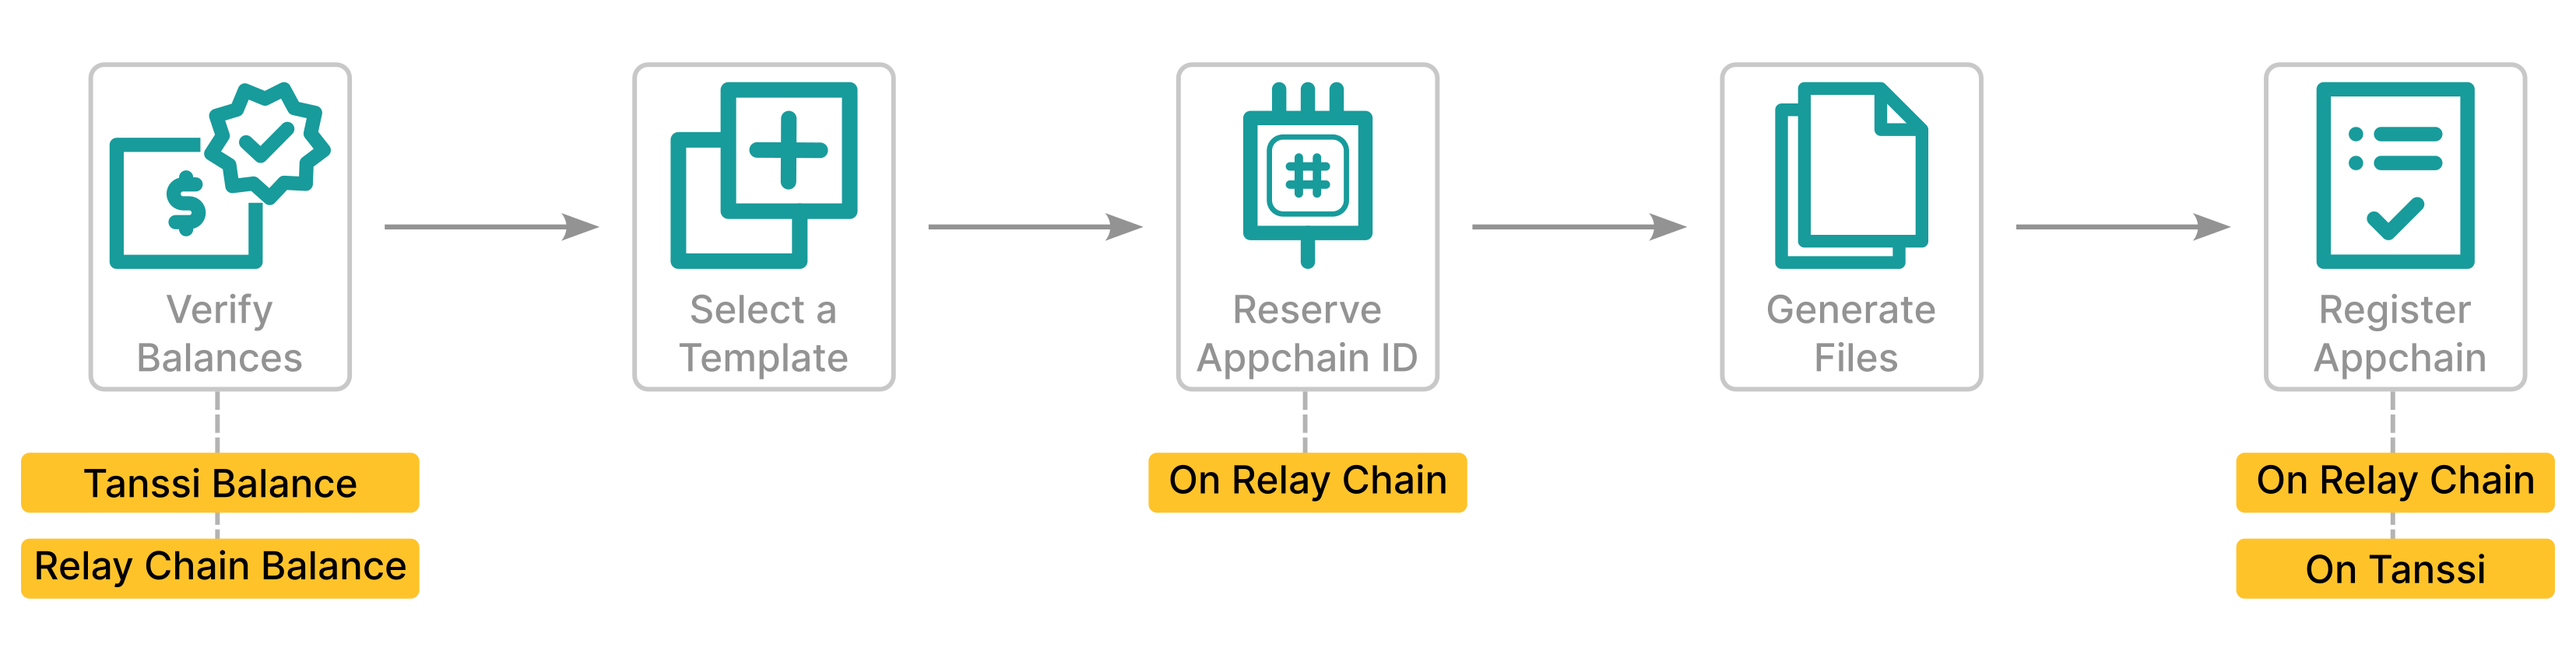
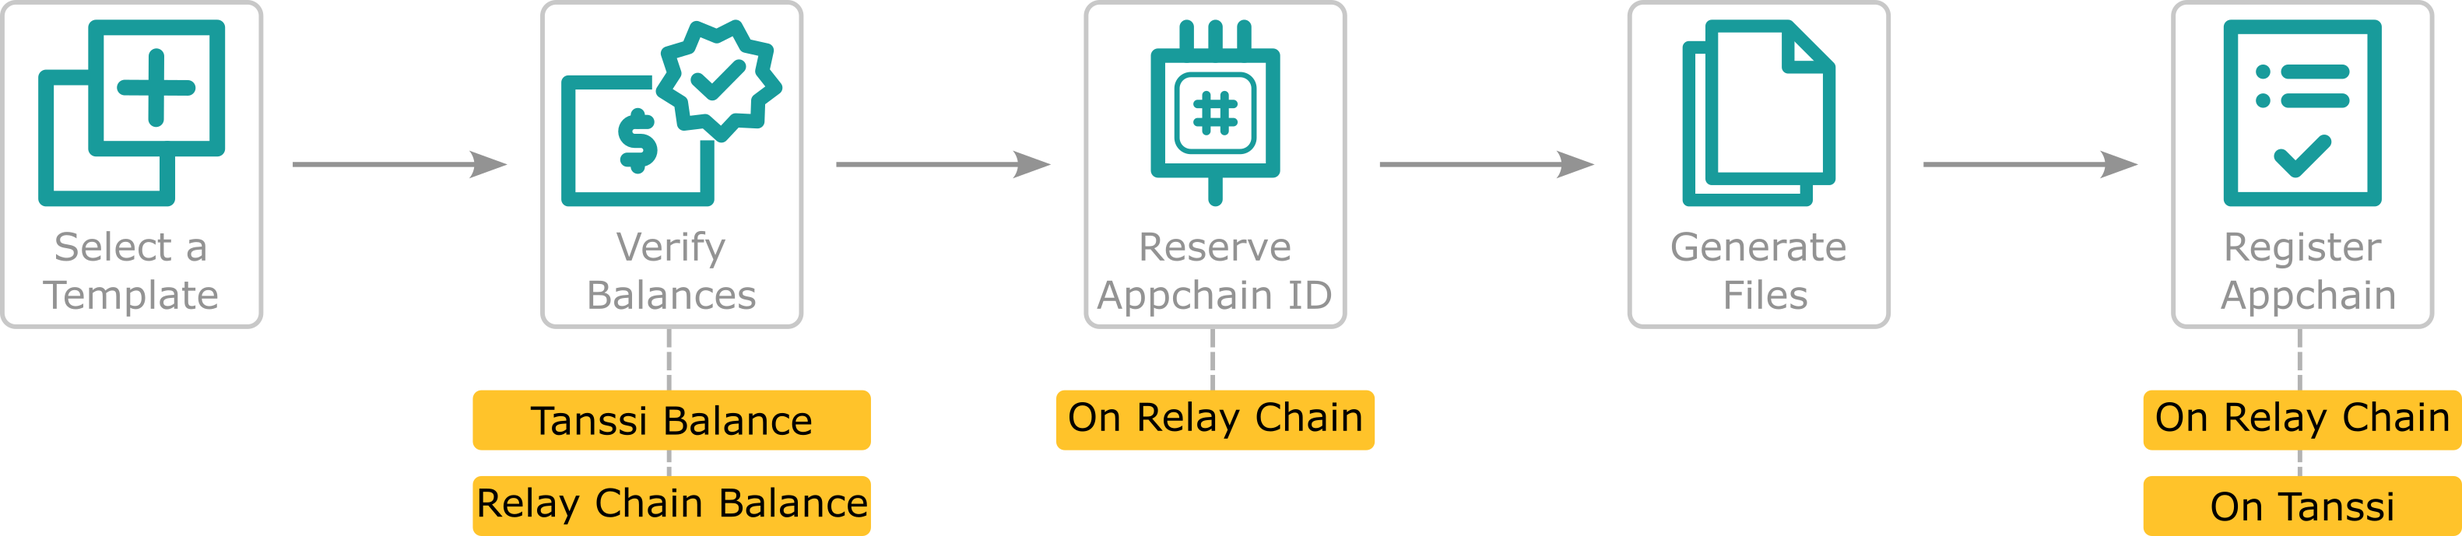
Updated order in the flow & image

diff --git a/builders/deploy-manage/dapp/deploy.md b/builders/deploy-manage/dapp/deploy.md
@@ -15,8 +15,8 @@ This guide will walk you through the steps required to launch an Appchain on Tan
 
 Deploying an Appchain via the Tanssi dApp is accomplished as a single, streamlined flow consisting of five distinct steps:
 
-1. Verify you have the minimum required balances in both Tanssi and the relay chain to launch a new Appchain
-2. Select a [template](/builders/build/templates/overview){target=_blank} and configure it
+1. Select a [template](/builders/build/templates/overview){target=_blank} and configure it
+2. Verify you have the minimum required balances in both Tanssi and the relay chain to launch a new Appchain
 3. Reserve your Appchain ID on the relay chain
 4. Generate your Appchain files based on the template you selected and your Appchain ID
 5. Register your Appchain on Tanssi and the relay chain
@@ -25,7 +25,9 @@ Deploying an Appchain via the Tanssi dApp is accomplished as a single, streamlin
 
 For [Dancebox](/builders/tanssi-network/networks/dancebox){target=_blank}, the Tanssi team will manually complete verification, and once verified, the launch process will begin. For Tanssi, the process will be fully decentralized and permissionless.
 
-## Supported Wallets {: #supported-wallets }
+## Prerequisites 
+
+### Supported Wallets {: #supported-wallets }
 
 Since Tanssi is built with Substrate, you'll need to use a Substrate-supported wallet to deploy and manage your ContainerChain. Supported wallets include:
 
@@ -35,27 +37,9 @@ Since Tanssi is built with Substrate, you'll need to use a Substrate-supported w
 
 Please note that if you deploy an EVM ContainerChain, your users won't need to use a Substrate wallet. They will be able to interact with your ContainerChain using Ethereum-compatible wallets like [MetaMask](/builders/interact/ethereum-api/wallets/metamask){target=_blank}.
 
-### Connect Your Wallet to the DApp {: #connect-wallet }
+### Check token balances {: #check-balances }
 
-Upon navigating to the [Tanssi dApp](https://apps.tanssi.network/dancebox), you'll be required to connect your wallet. Depending on the wallet you're using, your wallet may pop up when first navigating to the Tanssi dApp. If so, feel free to follow the prompt, select the accounts you want to interact with, and connect your wallet.
-
-Otherwise, to get started, you can:
-
-1. Click **Connect Wallet**
-2. Choose your account from the dropdown
-3. You'll be prompted to sign a message, which will log you into the Tanssi dApp. Go ahead and sign the message
-
-![Click on the Connect Wallet button to connect your wallet to the Tanssi dApp.](/images/builders/deploy-manage/dapp/deploy/deploy-2.png)
-
-Once connected, you'll see your address in the top-right corner. If you've connected multiple accounts and would like to switch accounts, you can click on your address and choose an account from the dropdown menu.
-
-To continue, click **Create Appchain**.
-
-## Balance Verification {: #balance-verification }
-
-The first step in creating and deploying your Appchain is to ensure that you meet the minimum balance requirements. To deploy your Appchain on Dancebox, you'll need to have DANCE tokens, the native Dancebox token, and UNIT tokens, which are the native Alphanet relay chain tokens.
-
-You'll need to meet the following balance requirements for the actions listed below:
+To configure and deploy your Appchain, you need to meet the minimum balance requirements, which means having enough DANCE tokens, the native Dancebox token, and UNIT tokens, which are the native Alphanet relay chain tokens, to cover the actions listed below:
 
 === "Dancebox"
     |              Action               | Balance Required |
@@ -64,19 +48,12 @@ You'll need to meet the following balance requirements for the actions listed be
     |  Register Appchain (Relay Chain)  |     70 UNIT      |
     |    Register Appchain (Tanssi)     |    100 DANCE     |
 
-On the **Balance Verification** page of the dApp, you can view your DANCE and UNIT token balances. Meeting the requirements results in a green checkmark next to each balance, while failing to meet them is indicated by a red X.
 
 To claim DANCE tokens, you need to complete a [form on the Tanssi network website](https://www.tanssi.network/claim-dance-tokens){target=_blank} by providing basic information and your Substrate-based address. Within one business day, you'll receive the necessary DANCE and UNIT tokens for launching your Appchain.
 
-If you have already reserved your Appchain ID, you can toggle the switch at the bottom of the **Balance Verification** page, and your balance requirements will change.
-
-Once you meet the balance requirements, you can proceed to the next step of configuring your Appchain by clicking the **Continue** button at the bottom of the page.
-
-![Verify you meet the balance requirements for launching your Appchain.](/images/builders/deploy-manage/dapp/deploy/deploy-3.png)
-
 ## Configure Your Appchain {: #configure-your-appchain }
 
-Next, you'll be able to select a template for your Appchain and, based on the template, configure specific properties, like the token decimals and symbol, genesis smart contracts and accounts, and more.
+Upon navigating to the [Tanssi dApp](https://apps.tanssi.network/dancebox), you can immediately start creating your Appchain. You'll be able to select a template that best fits your use case and, based on the template, configure specific properties, like the token decimals and symbol, genesis smart contracts and accounts, and more.
 
 You can choose from either the EVM or Substrate template or upload a raw specification file. To find out more information on the available templates, please refer to the [Templates](/builders/build/templates/overview){target=_blank} documentation.
 
@@ -152,6 +129,34 @@ Now, you can upload your custom raw specification file by selecting the **Custom
 
 !!! note
     The size for a raw chain specifications file should not exceed 2Mb
+
+## Check your balances {: #check-balances }
+
+After configuring your Appchain, the dApp will require you to connect your wallet to check your balances. Provided that you have received enough DANCE and UNIT tokens, you can proceed.
+
+### Connect Your Wallet to the DApp {: #connect-wallet }
+
+To continue the process, you'll be required to connect your wallet. Depending on the wallet you're using, your wallet may pop up when first navigating to the Tanssi dApp. If so, feel free to follow the prompt, select the accounts you want to interact with, and connect your wallet.
+
+Otherwise, to get started, you can:
+
+1. Click **Connect Wallet**
+2. Choose your account from the dropdown
+3. You'll be prompted to sign a message, which will log you into the Tanssi dApp. Go ahead and sign the message
+
+![Click on the Connect Wallet button to connect your wallet to the Tanssi dApp.](/images/builders/deploy-manage/dapp/deploy/deploy-2.png)
+
+Once connected, you'll see your address in the top-right corner. If you've connected multiple accounts and would like to switch accounts, you can click on your address and choose an account from the dropdown menu.
+
+### Balances verification {: #balance-verification }
+
+Once you have connected your wallet on the dApp, the **Balance Verification** section will show your DANCE and UNIT token balances. Meeting the requirements results in a green checkmark next to each balance, while failing to meet them is indicated by a red X.
+
+If you have already reserved your Appchain ID, you can toggle the switch at the bottom of the **Balance Verification** page, and your balance requirements will change.
+
+Once you meet the balance requirements, you can proceed to the next step by clicking the **Continue** button at the bottom of the page.
+
+![Verify you meet the balance requirements for launching your Appchain.](/images/builders/deploy-manage/dapp/deploy/deploy-3.png)
 
 ## Reserve your Appchain ID {: #reserve-appchain-id }
 
